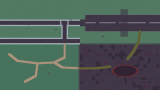
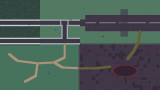
Great Prince: Michael-style world test (tiles + house), comparison tooling
Claude-Session: https://claude.ai/code/session_01YABBJVPWvaqtn34m5VQVCp

Changed region(s): [[0.0, 0.0, 0.25, 0.2444], [0.0, 0.2667, 0.25, 0.4444], [0.0, 0.4667, 0.25, 0.4889]]

diff --git a/arpg/art/build_zone.py b/arpg/art/build_zone.py
@@ -25,6 +25,10 @@ SIDE_N = (468, 500); ROAD = (500, 596); SIDE_S = (596, 628)                  # m
 SIDE_N2 = (905, 937); ROAD2 = (937, 1033); SIDE_S2 = (1033, 1065)           # lower street
 CROSS = (1504, 1600)                                                       # side street (x), main street -> lower street
 random.seed(11)
+# Step 2 style test: the left half of the suburb uses tiles and one house generated with Michael as the style reference
+# (art/gen_world_test.py); the right half keeps the reused Project R art, for comparison. False restores the old art.
+WORLD_TEST = True
+TEST_X = 960                                                               # test tiles west of this x (suburb only)
 
 # [art, x, base y, footprint w, footprint h]
 # Houses at true scale (doors ~1.15 x Michael): three tall houses north, two bungalows and the store south.
@@ -85,6 +89,7 @@ def ground():
         for tx in range(0, W, 32):
             bg.alpha_composite(random.choice(grass), (tx, ty))
     suburb(bg); highway(bg); park(bg); rift(bg)
+    if WORLD_TEST: test_tiles(bg)
     px = bg.load()
     for fx, fy in FIRES + FIRES_MORE + [[c[1], c[2] - 10] for c in CARS + HWY_CARS]:   # scorch grouped where things burned
         scorch(px, fx, fy + 14, random.randint(26, 40))
@@ -95,6 +100,41 @@ def ground():
     bg.save(G + 'ground.png')
     mini = bg.resize((W // 24, HT // 24), Image.BOX)
     mini.save('game/art/ui/minimap.png')
+
+
+def test_tiles(bg):
+    """Repaint the suburb west of TEST_X with the generated tiles: asphalt cracks over a dark asphalt fill, the
+    sidewalk slabs, and the lawn variants."""
+    raw = os.path.join(HEAVEN, 'art', 'raw', 'arpg_test_tile_%d.png')
+    t = lambda i: Image.open(raw % i).convert('RGBA')
+    asphalt = [t(i) for i in (0, 1, 2, 5)]
+    walk = [t(8), t(9)]
+    lawn = [t(12), t(13), t(12), t(13), t(14)]
+    rng = random.Random(4)
+    fill = lambda c: Image.new('RGBA', (32, 32), C(c))
+    for ty in range(0, SH, 32):                                   # lawn everywhere, then the bands on top
+        for tx in range(0, TEST_X, 32):
+            bg.paste(rng.choice(lawn), (tx, ty))
+    for y0, y1 in (ROAD, ROAD2):
+        for ty in range(y0, y1, 32):
+            for tx in range(0, TEST_X, 32):
+                tile_im = fill('3e3546'); tile_im.alpha_composite(rng.choice(asphalt)); bg.paste(tile_im, (tx, ty))
+    for y in (SIDE_N[0], SIDE_S[0], SIDE_N2[0], SIDE_S2[0]):
+        for tx in range(0, TEST_X, 32):
+            tile_im = fill('9babb2'); tile_im.alpha_composite(rng.choice(walk)); bg.paste(tile_im, (tx, y))
+    for y0, y1 in (ROAD, ROAD2):                                  # keep the lane markings
+        for tx in range(64, TEST_X, 96): bg.alpha_composite(tile('road_line_h'), (tx, (y0 + y1) // 2 - 16))
+
+
+def test_house():
+    """The generated house (variant 02, straight front) at true scale: Scale2x twice (4x, door ~64 px ~1.1 x Michael),
+    world palette, outline."""
+    sys.path.insert(0, os.path.join(HEAVEN, 'art'))
+    from upscale import upscale
+    im = Image.open(os.path.join(HEAVEN, 'art', 'raw', 'arpg_test_house_02.png')).convert('RGBA')
+    im = style.to_world_palette(im.crop(im.getbbox()))
+    big = upscale(upscale(im))
+    return style.outline(style.to_world_palette(big.crop(big.getbbox())))
 
 
 def suburb(bg):
@@ -283,6 +323,8 @@ def props():
     for n, im in out.items():
         im = to_style(n, im)
         im.save(G + n + '.png')
+    if WORLD_TEST:
+        test_house().save(G + 'house_test.png')
 
 
 def to_style(name, im):
@@ -368,7 +410,10 @@ def fence_run(art, x0, x1, base, gaps=()):
 
 
 def layout():
-    items = NORTH_ROW + SOUTH_ROW + CARS
+    north = [list(h) for h in NORTH_ROW]
+    if WORLD_TEST:
+        north[0] = ['house_test', 290, 470, 470, 70]               # generated house beside the reused ones
+    items = north + SOUTH_ROW + CARS
     items += fence_run('fence_picket_broken', 16, 1470, 664, gaps=((440, 540), (1000, 1064)))   # back fences, broken
     items += fence_run('fence_chainlink', 1632, 1920, 660) + fence_run('fence_picket', 1632, 1920, 300, gaps=((1700, 1764),))
     items += [['hedge', 560, 470, 56, 14], ['hedge', 1100, 470, 56, 14],

diff --git a/arpg/art/gen_world_test.py b/arpg/art/gen_world_test.py
@@ -1,0 +1,46 @@
+"""PAID test (Step 2): world art generated with MICHAEL as the style reference, to compare with the reused Project R art.
+  tiles - create-tiles-pro, 16 x 32 px (10 gens): street asphalt, sidewalk concrete, night lawn
+  house - generate-image-v2 at 168 px, 4 variants (15 gens): one suburban house, the straight-front 3/4 wording that
+          gave usable dwellings in heaven (art/gen_district.py)
+Style: Michael's approved front sprite (style_image; tile style_images = two 32 px crops of it); palette: the ARPG
+world palette (art/style.py). Run from heaven/:  python3 arpg/art/gen_world_test.py tiles|house"""
+import json, sys, time
+sys.path.insert(0, 'tools'); sys.path.insert(0, 'arpg/art')
+from plh import *
+import style
+
+MICHAEL = Image.open('arpg/game/art/michael/idle.png').convert('RGBA').crop((0, 0, 64, 64))
+WORLD_PAL = {"colors": ["#" + c for c in style.WORLD], "name": "ARPG world"}
+
+if 'tiles' in sys.argv:
+    sty = [{"base64": b64(MICHAEL.crop(b))["base64"], "width": 32, "height": 32} for b in ((16, 16, 48, 48), (16, 30, 48, 62))]
+    D = ("1). dark asphalt road at night, worn grey-black tarmac with small cracks and a few loose stones, top-down, seamless "
+         "2). dark asphalt road, plain, slightly patched, top-down, seamless "
+         "3). concrete sidewalk slab, pale grey square paving with thin joints, top-down, seamless "
+         "4). concrete sidewalk, cracked grey paving slab with grit, top-down, seamless "
+         "5). dark green suburban lawn grass at night, short and slightly overgrown, top-down, seamless "
+         "6). dark green lawn grass with a few dry patches, top-down, seamless")
+    body = {"description": D, "tile_type": "square_topdown", "tile_size": 32, "tile_view": "top-down",
+            "outline_mode": "segmentation", "target_palette": WORLD_PAL, "seed": 31, "style_images": sty,
+            "style_options": {"color_palette": False, "outline": True, "detail": True, "shading": True}}
+    j = guard.paid_post("/create-tiles-pro", body, 10, "arpg_test_tiles")
+    json.dump(j, open(RAW + "arpg_test_tiles.json", "w"))
+    lr = j.get("last_response") or j
+    tid = lr.get("tile_id")
+    for k in range(60):
+        t = guard.get(f"/tiles-pro/{tid}")
+        urls = t.get("storage_urls") or {}
+        if urls: break
+        time.sleep(5)
+    for name, u in urls.items():
+        fetch(u).save(RAW + f"arpg_test_{name}.png")
+    print("tiles", len(urls))
+
+if 'house' in sys.argv:
+    VIEW = ("seen straight from the front (south) in a three-quarter top-down view: the front wall faces the viewer squarely "
+            "and runs parallel to the bottom edge, the roof slopes away and is seen from above, NOT isometric, NOT turned diagonally")
+    gimg("arpg_test_house", "A two-storey suburban family house at night, " + VIEW + ". Wooden clapboard walls in muted grey-blue, "
+         "a dark shingle roof, a front porch with steps and a single front door in the middle of the front wall at ground level, "
+         "the door a little taller than a man, windows at head height, one window softly lit warm yellow, the rest dark. "
+         "Quiet, a little worn. The building fills the image on a thin strip of lawn. Clean pixel art game asset, dark outline, "
+         "light from top-left", 168, 168, seed=303, style='arpg/art/michael_front_ref.png')

diff --git a/tools/guard.py b/tools/guard.py
@@ -1,7 +1,7 @@
 """HARD budget guard for the heaven demo. Every PixelLab POST must go through paid_post().
 Floor: subscription generations may not drop below FLOOR. USD credits must not change."""
 import json, urllib.request, urllib.error, sys, time
-B="https://api.pixellab.ai/v2"; START=99.5; CAP=0.0; FLOOR=START-CAP; USD0=2.18083018988485
+B="https://api.pixellab.ai/v2"; START=74.5; CAP=0.0; FLOOR=START-CAP; USD0=2.18083018988485
 LOG="/tmp/claude-0/-home-user-my-own-art/cb019c91-d4b5-5ec5-a8ec-8aef6ba03cf6/scratchpad/heaven/spend_log.txt"
 def _req(method,path,body=None):
     r=urllib.request.Request(B+path,data=None if body is None else json.dumps(body).encode(),method=method,

diff --git a/arpg/ARPG_NOTES.md b/arpg/ARPG_NOTES.md
@@ -57,6 +57,16 @@ store's plan-view roof is foreshortened to 3/4. The suburb was relaid for the bi
 store south); tall roofs rise 150 px above the map edge over a dark strip. `tools/check_palette.py` checks palette,
 outline and scale; `game/tests/run_all.sh` runs every check. `out/reference_sheet.png`, `out/style_before_after.png`.
 
+## Step 2 world test (Michael as style reference)
+`art/gen_world_test.py` (paid, run from heaven/): `tiles` = create-tiles-pro 16 x 32 px (asphalt cracks, sidewalk,
+night lawn; style images = two 32 px crops of Michael; target palette = the world palette), `house` = image-v2 168 px,
+4 variants, the straight-front 3/4 wording + Michael's front sprite as style image (#02 used). `build_zone.WORLD_TEST`
+puts the test tiles west of x 960 in the suburb and the test house as the first north house; False restores the old art.
+`tests/compare_shots.gd` (`-- --fresh --compare`) writes `out/world_test_generated.png` / `world_test_reused.png`;
+sheet `out/world_test_compare.png`. Findings: the tiles fit (the asphalt came back as crack overlays on transparency, so
+they sit on a dark fill); a 168 px house is drawn at miniature scale (door ~16 px vs the 67 px rule), and 4x Scale2x makes
+it blobby next to Michael - buildings need a bigger canvas (image-v2 allows up to 512x512) or the styled reused houses.
+
 ## UI (fonts, layout, numbers)
 - Fonts (OFL, from github.com/google/fonts; licences in `game/fonts/OFL-*.txt`): **Pixelify Sans** for titles (20,
   weight 600) and body (10), **Silkscreen** for small labels and numbers (8). Whole-pixel sizes, antialiasing and hinting
@@ -144,7 +154,9 @@ modifiers Hasted, Ember-Burst, Shielded; hero Gravemaw. Places: Main Street, Hig
 | Item icons 32 px batch (64 variants, 8 per slot) | 10 |
 | **Total, first pass** | **39** (balance 129.5; USD unchanged) |
 | Locust, Impure Spirit, Fire Horse: one 64 px batch each (16 variants; #02, #04, #01 used) | 30 |
-| **Total** | **69** (balance 99.5; USD unchanged) |
+| **Total, enemies pass** | **69** (balance 99.5) |
+| Step 2 test: tiles (create-tiles-pro) 10, house 168 px 15 | 25 |
+| **Total** | **94** (balance 74.5; USD unchanged) |
 
 ## Known weak spots
 - Michael's walk template barely moves the legs facing down; the side row is the mirrored west walk. No cast animation

diff --git a/arpg/STYLE.md b/arpg/STYLE.md
@@ -38,7 +38,13 @@ Everything a new artist or agent needs to add art that matches. The reference is
 - `tools/check_palette.py` — palette, outline and scale checks (exit 1 on a problem).
 - `art/ext/` — read-only copies of Project R's exterior art (sources of the world pieces).
 
-## 4. Known gaps against the rules
+## 4. Generating new world art (lessons from the Step 2 test, `out/world_test_compare.png`)
+- Tiles: create-tiles-pro with two 32 px crops of Michael as style images and the world palette works; road tiles may
+  come back as overlays on transparency - lay them on a solid fill.
+- Buildings: generate at a canvas where the door is already ~67 px (house ~400+ px tall), not at 168 px: upscaling a
+  168 px house 4x reads blobby beside Michael. Keep the straight-front 3/4 wording.
+
+## 5. Known gaps against the rules
 - Project R houses keep their own shading density (a little busier than Michael); light direction already matches.
 - Houses come from four sources (mirrored/darkened for variety).
 - The overpass is a flat hand-drawn deck without an outline (it is drawn overhead).
